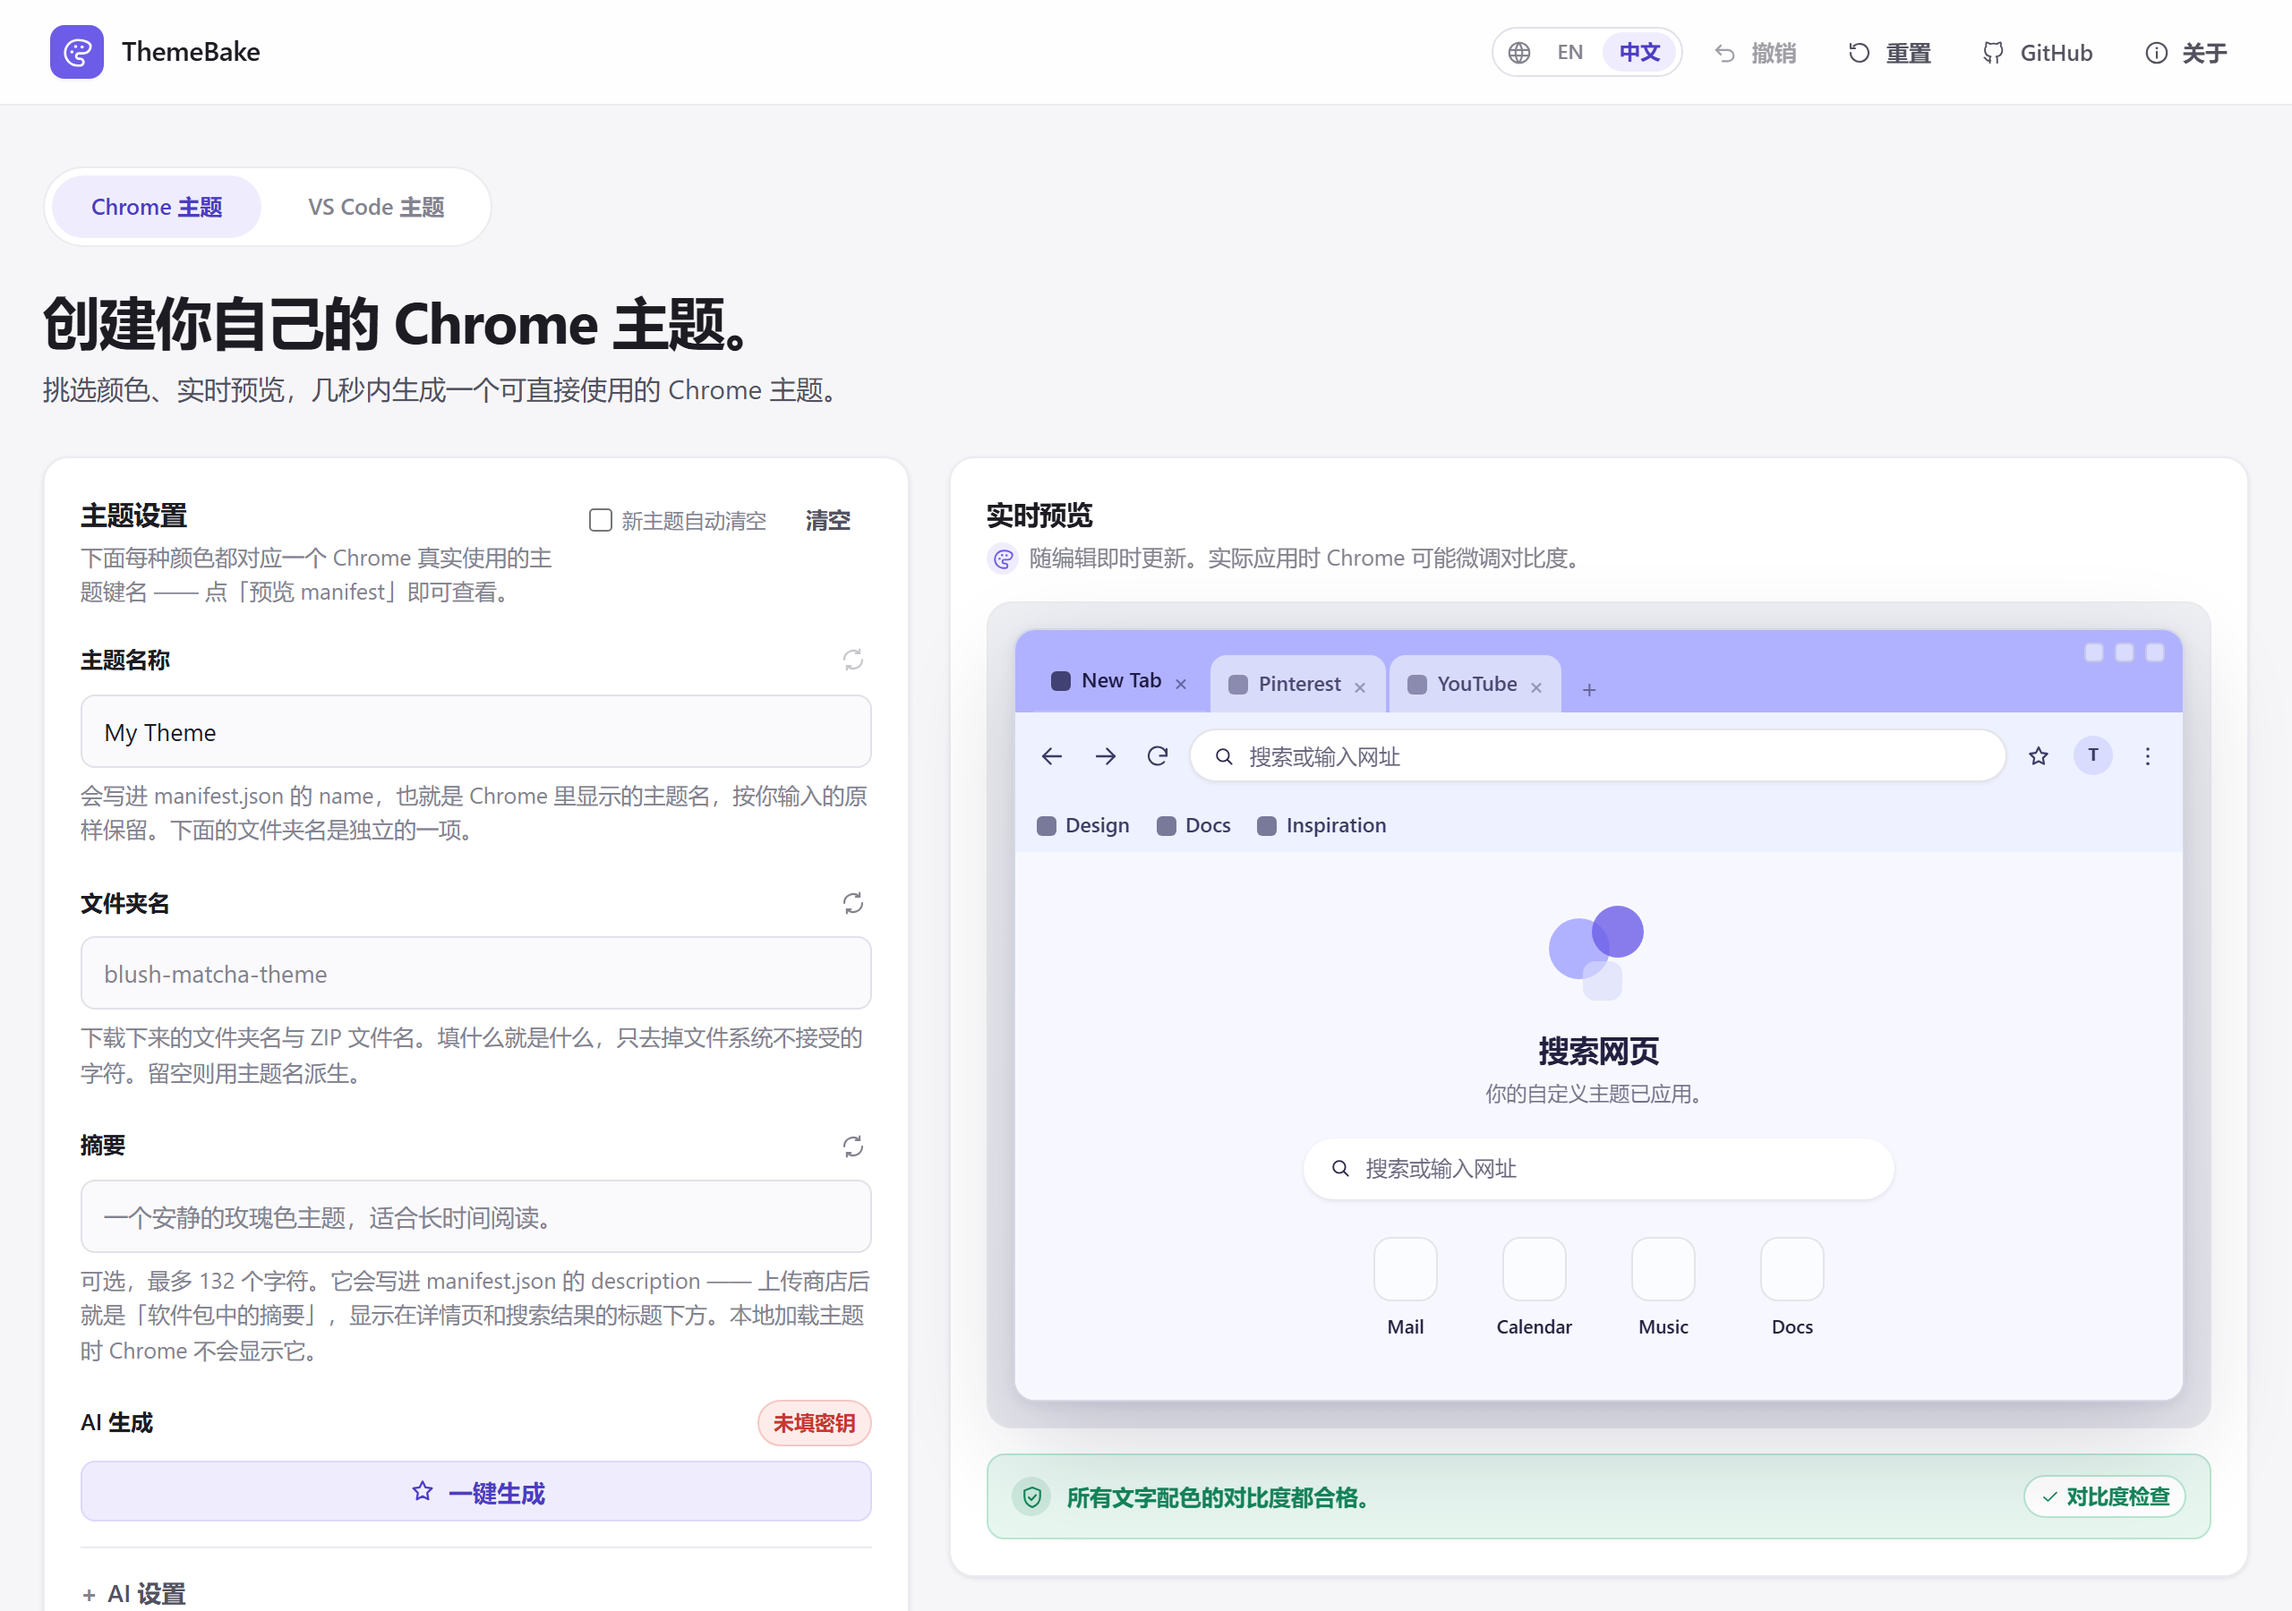
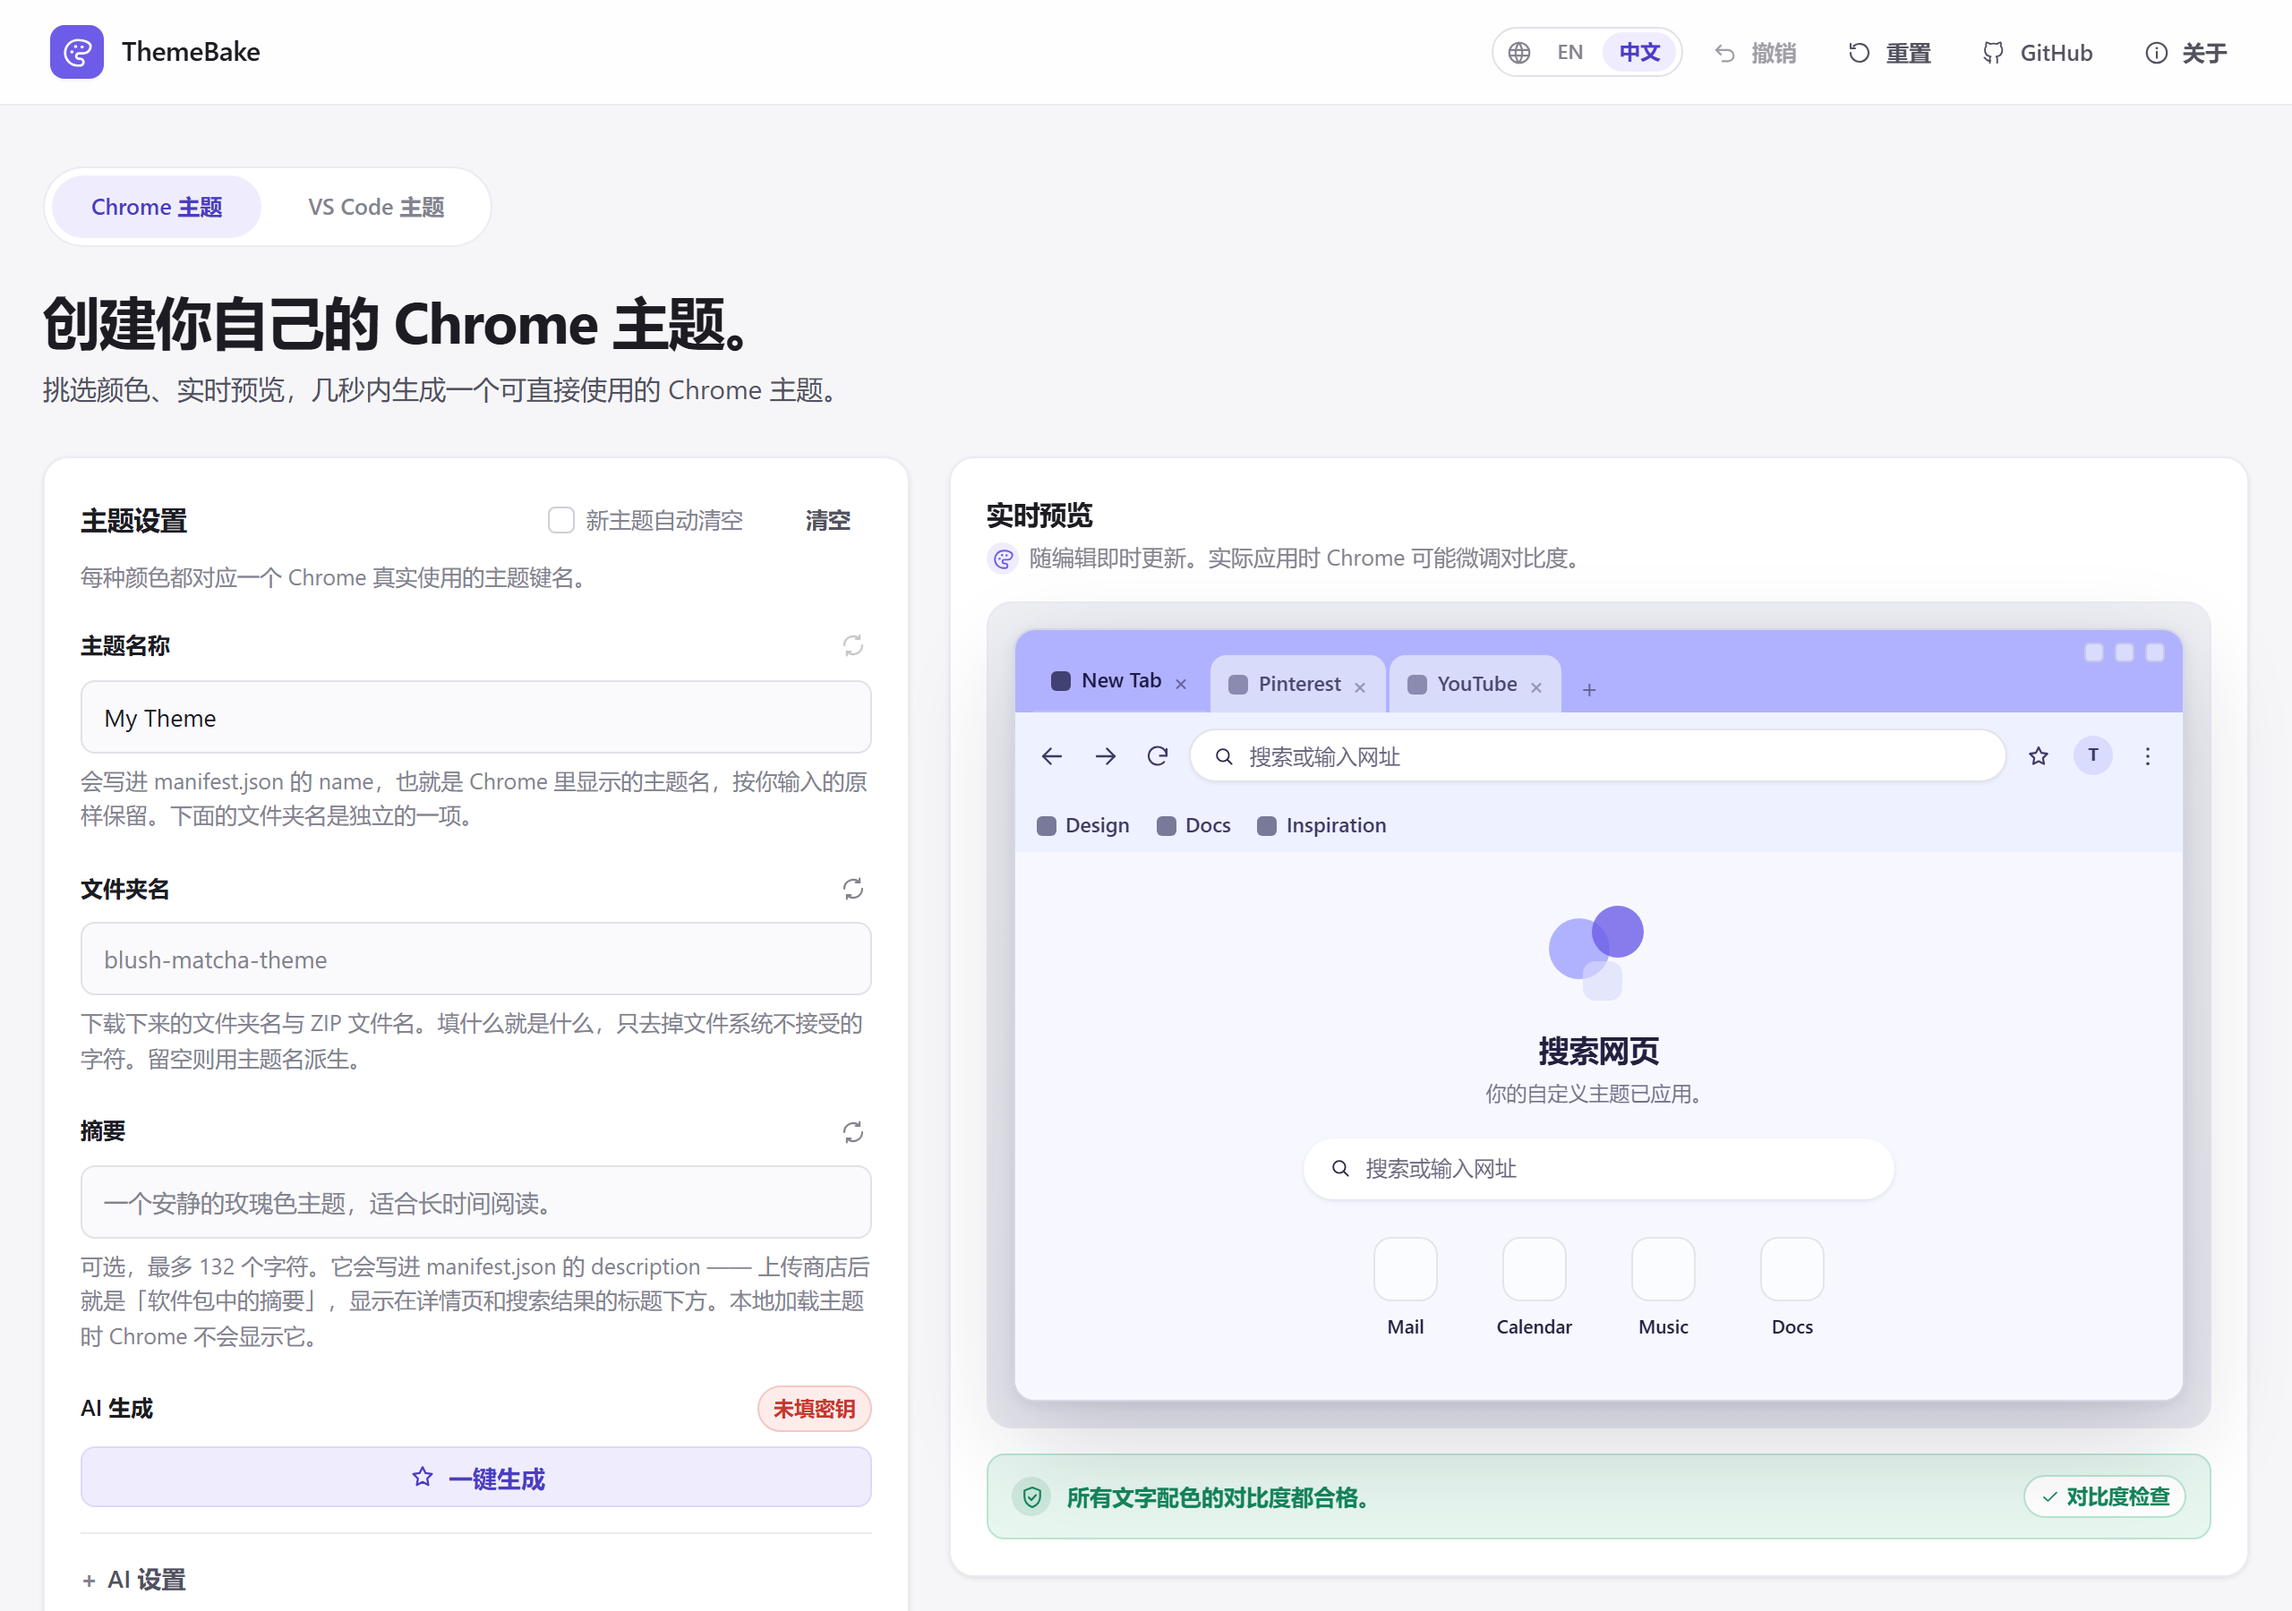
style(settings): 标题与操作同一行、描述精简为一行（英文开关标签同步缩写）

diff --git a/src/styles/studio.css b/src/styles/studio.css
@@ -398,32 +398,53 @@
 }
 
 /* ----------------------- Settings header actions -------------------------- */
-/* The title's row carries one preference and two actions — the auto-clear switch
-   and the clear / undo buttons. Three controls of equal weight, so they share one
-   line box, one height and one hover treatment: the toggle used to be bare text
-   beside a native checkbox, which read as a purple block next to two text buttons
-   and sat on a different baseline from them. */
+/*
+ * Three things share this header: the title, a one-line description and the action
+ * row (the auto-clear preference plus the clear / undo buttons).
+ *
+ * Laid out as two grid rows so the arrangement is fixed rather than emergent —
+ * the actions always sit on the title's own line, and the description always runs
+ * the full width beneath them. As a wrapping flex row it used to be the longest
+ * description that decided where the buttons landed, which is how a two-line
+ * subtitle pushed them under the title.
+ *
+ * The wrapper the title and description arrive in is `display: contents`, so those
+ * two land in this grid directly instead of nesting in a box of their own.
+ */
 .settings-panel .panel__header {
-  display: flex;
-  align-items: flex-start;
-  justify-content: space-between;
-  /* The actions are a fixed-width row; the title takes what is left and wraps
-     rather than pushing them out. When even that is too tight the row drops to
-     its own line, still flushed right. */
-  flex-wrap: wrap;
-  gap: 12px;
+  display: grid;
+  grid-template-columns: minmax(0, 1fr) auto;
+  align-items: center;
+  column-gap: 12px;
+  row-gap: 5px;
 }
 
 .settings-panel .panel__header > :first-child {
-  flex: 1 1 auto;
+  display: contents;
+}
+
+.settings-panel .panel__header h2 {
+  grid-column: 1;
+  grid-row: 1;
   min-width: 0;
 }
 
+.settings-panel .panel__header .panel__subtitle {
+  grid-column: 1 / -1;
+  grid-row: 2;
+}
+
+/*
+ * The preference and the two buttons, as one row of equal-weight controls: same
+ * box, same height, same hover — the toggle used to be bare text beside a native
+ * checkbox, which read as a purple block on a different baseline from the buttons.
+ */
 .settings-actions {
   display: inline-flex;
-  flex: 0 0 auto;
+  grid-column: 2;
+  grid-row: 1;
+  justify-self: end;
   align-items: center;
-  margin-left: auto;
   /* Tight inside a group, wider between them: the preference is one control, the
      buttons are another. */
   gap: 6px;
@@ -502,13 +523,23 @@
   box-shadow: 0 0 0 3px var(--accent-ring);
 }
 
+/* On a phone-width panel there is no room for the description's full width, so the
+   actions move down a row and the description keeps its line to itself. They stay
+   in the grid either way, which is why this only needs to reassign one cell. */
 @media (max-width: 560px) {
   .settings-panel .panel__header {
-    flex-direction: column;
+    grid-template-columns: minmax(0, 1fr);
+    row-gap: 8px;
+  }
+
+  .settings-panel .panel__header h2,
+  .settings-actions {
+    grid-column: 1;
   }
 
   .settings-actions {
-    align-self: flex-end;
+    grid-row: 3;
+    justify-self: start;
   }
 }
 

diff --git a/src/i18n/en.js b/src/i18n/en.js
@@ -76,7 +76,7 @@ export default {
   'mode.vscode': 'VS Code Theme',
   'mode.aria': 'Choose a workspace',
   'settings.title': 'Theme Settings',
-  'settings.subtitle': 'Every colour below maps to a real Chrome theme key — see Preview Manifest.',
+  'settings.subtitle': 'Every colour is a real Chrome theme key.',
   'settings.name.label': 'Theme Name',
   'settings.name.placeholder': 'My Theme',
   'settings.name.hint':
@@ -91,8 +91,11 @@ export default {
     'Optional. Up to {max} characters. Written into manifest.json as description — the Chrome Web Store shows it as the package summary, under the title on the detail page and in search results. Chrome does not display it for a locally loaded theme.',
   'settings.clear': 'Clear',
   'settings.clearTitle': 'Clear the theme name, folder name and summary in one click',
-  'settings.autoClear': 'Auto-clear on new theme',
-  'settings.autoClearTitle': 'Clear these three fields whenever a new theme is applied (preset, random, smart palette, import)',
+  // Short, like the Chinese label: the header row shares its line with the title,
+  // and the tooltip spells out the "on a new theme" part anyway.
+  'settings.autoClear': 'Auto-clear',
+  'settings.autoClearTitle':
+    'Clear these fields (name, folder, summary) whenever a new theme is applied — preset, random, smart palette or import',
   'settings.group.browserChrome': 'Browser chrome',
   'settings.group.addressBar': 'Address bar',
   'settings.group.bookmarks': 'Bookmarks',
@@ -101,8 +104,7 @@ export default {
 
   // ------------------------------------------------------------------ vscode
   'vscode.title': 'VS Code Theme Settings',
-  'vscode.subtitle':
-    'Tune 14 master colours — the other 90+ workbench keys and the syntax colours are derived automatically. Live preview, installable export.',
+  'vscode.subtitle': 'Tune 14 master colours — the other 90+ keys and the syntax colours are derived.',
   'vscode.type.label': 'Theme type',
   'vscode.type.dark': 'Dark',
   'vscode.type.light': 'Light',

diff --git a/src/i18n/zh.js b/src/i18n/zh.js
@@ -68,7 +68,7 @@ export default {
   'mode.vscode': 'VS Code 主题',
   'mode.aria': '选择工作台',
   'settings.title': '主题设置',
-  'settings.subtitle': '下面每种颜色都对应一个 Chrome 真实使用的主题键名 —— 点「预览 manifest」即可查看。',
+  'settings.subtitle': '每种颜色都对应一个 Chrome 真实使用的主题键名。',
   'settings.name.label': '主题名称',
   'settings.name.placeholder': '我的主题',
   'settings.name.hint':
@@ -93,8 +93,7 @@ export default {
 
   // ------------------------------------------------------------------ vscode
   'vscode.title': 'VS Code 主题设置',
-  'vscode.subtitle':
-    '只调 14 个基准色，其余 90+ 个工作台键与语法高亮配色自动派生 —— 预览即时更新，导出即可安装。',
+  'vscode.subtitle': '只调 14 个基准色，其余 90+ 键与语法高亮自动派生。',
   'vscode.type.label': '主题类型',
   'vscode.type.dark': '深色',
   'vscode.type.light': '浅色',
